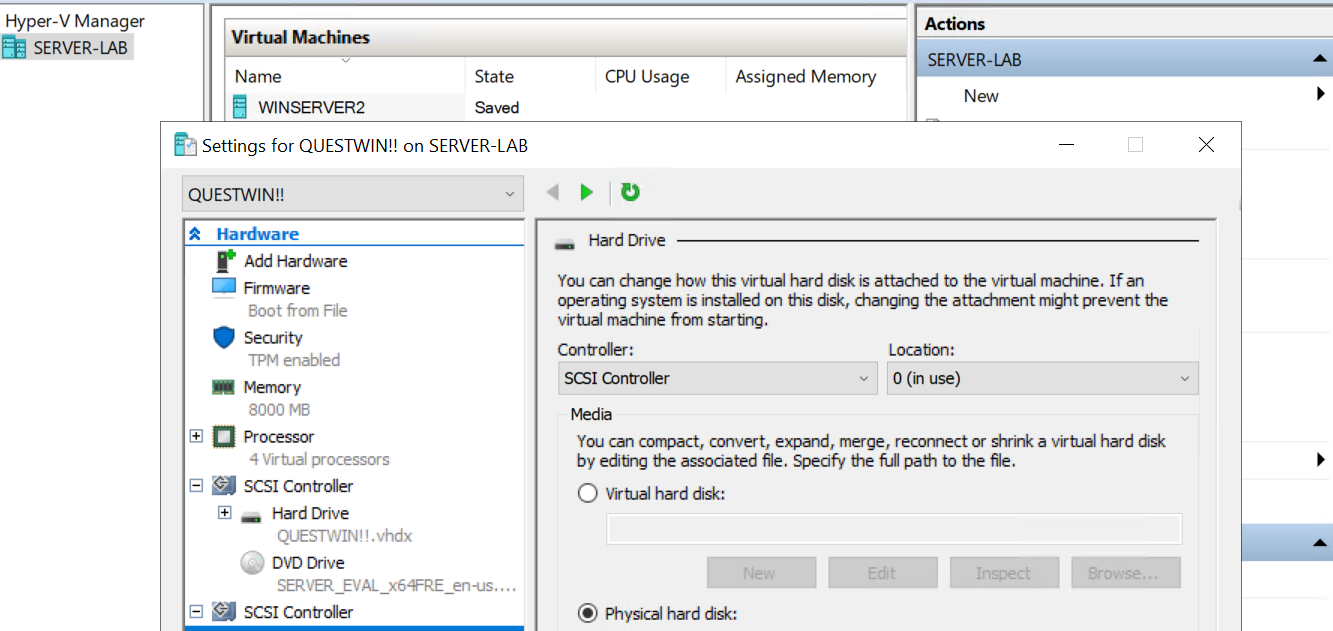
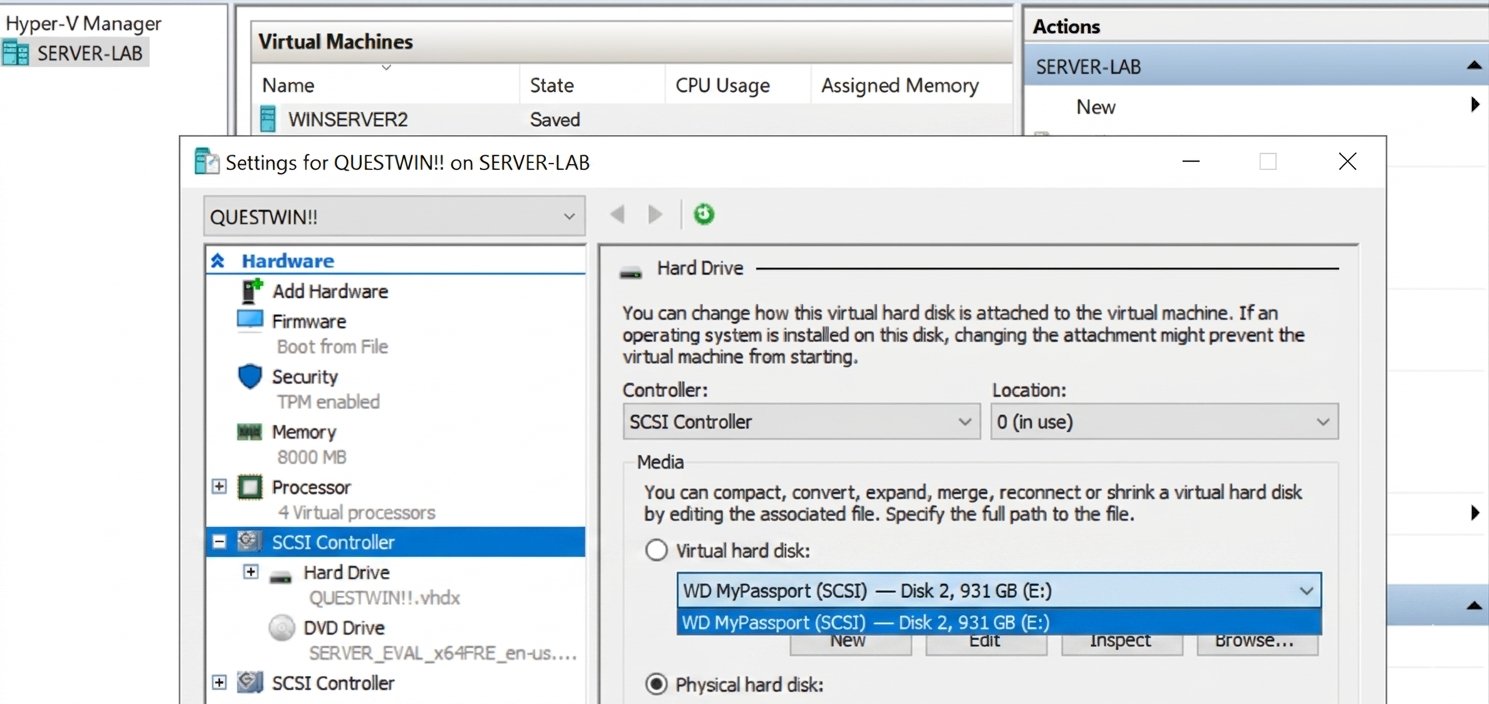
Clear images

diff --git a/docs/dc-cross-site-restore-hyper-v-external.md b/docs/dc-cross-site-restore-hyper-v-external.md
@@ -1,79 +1,90 @@
-# 🛠 DC Cross-Site Restore — Hyper-V (External)
+# Technical Report: Cross-Site Domain Controller Restoration
 
-This guide documents the successful cross-site disaster-recovery exercise: restoring the `questlab.local` domain controller (**SERVER-QUEST**) onto a remote Hyper-V host using a physical drive passthrough.
-
-**Status:** ✅ Restore completed  
-**Source DC:** SERVER-QUEST (`questlab.local`)  
-**Backup Carrier:** WD MyPassport (NTFS, 931 GB)  
-**Target VM:** Gen 2 VM (UEFI) - Windows Server 2022  
+**Project:** Disaster Recovery Validation — SERVER-QUEST  
+**Environment:** Physical-to-Virtual (P2V) via Hyper-V Passthrough  
+**Status:** ✅ Restore Validated  
 
 ---
 
-## 🖥 Phase 1: Hyper-V VM & Disk Passthrough Setup
-Before the restoration can begin, the physical hardware must be prepared and "passed through" to the virtual environment.
+### Executive Summary
+This document confirms the successful cross-site restoration of the `questlab.local` Domain Controller (**SERVER-QUEST**). The exercise validated the use of bare-metal system images for rapid recovery onto disparate hardware using Hyper-V’s physical disk passthrough capabilities.
 
-### 1. Set Host Disk to Offline
-In the Windows Host's **Disk Management**, the WD MyPassport must be set to **Offline**. Hyper-V cannot claim a physical disk if the Host OS is currently mounting it.
+**Recovery Specifications:**
+* **Target OS:** Windows Server 2022 (Standard)
+* **Firmware:** Generation 2 (UEFI)
+* **Storage Interface:** SCSI Passthrough (WD MyPassport 931 GB)
+* **Total Data Volume:** ~75 GB
+* **Total Restore Time:** 45 Minutes
+
+---
+
+### Phase 1: Hyper-V Infrastructure Configuration
+Restoration begins with preparing the virtual environment to interact directly with the physical backup media.
+
+**1.1 Host Storage Preparation**
+The physical backup carrier must be set to an **Offline** state within the host's Disk Management utility. This allows the Hyper-V hypervisor to grant the guest VM exclusive access to the raw disk.
 
 ![Hyper-V Offline Disk](./img/hyperv-offline-disk.png)
+*Figure 1: Transitioning the backup volume to 'Offline' on the host system.*
 
-*Figure 1: Setting the backup carrier to 'Offline' state on the host.*
-
-### 2. Configure VM Passthrough
-In the **Hyper-V Manager** settings for the new Gen 2 VM:
-1. Navigate to **SCSI Controller** > **Hard Drive** > **Add**.
-2. Select the **Physical hard disk** radio button.
-3. Choose the WD MyPassport from the dropdown.
+**1.2 SCSI Controller Mapping**
+Within Hyper-V Manager, the physical drive is mapped to the VM's SCSI controller. This bypasses virtual disk overhead and allows the Windows Recovery Environment (WinRE) to read the `WindowsImageBackup` folder natively.
 
 ![Hyper-V Passthrough Setup](./img/hyperv-passthrough-setup.png)
-
-*Figure 2: Mapping the physical drive directly to the VM's SCSI controller.*
+*Figure 2: Configuring physical hard disk passthrough on the target VM.*
 
 ---
 
-## 🏁 Phase 2: Boot & Environment Setup
-Boot the VM from the Windows Server 2022 ISO and enter the recovery tools:
+### Phase 2: Recovery Environment & Image Initialization
+The VM is initialized via the Windows Server 2022 ISO to access the Advanced Troubleshooting toolset.
 
-1. Select **Repair your computer** > **Troubleshoot** > **System Image Recovery**.
+**2.1 System Image Recovery Execution**
+The "System Image Recovery" tool is utilized to scan the attached SCSI storage for available backup sets.
 
 ![Recovery Wizard](./img/recovery-wizard.png)
+*Figure 3: Initializing the System Image Recovery wizard within WinRE.*
 
-*Figure 3: Accessing the Windows Recovery Environment (WinRE) wizard.*
-
-## 💾 Phase 3: Image Selection
-The wizard scans the passthrough disk and identifies the `WindowsImageBackup` folder.
+**2.2 Volume Verification**
+The wizard successfully identified the system image from **2026-04-26** located on the passthrough volume.
 
 ![Select Image](./img/select-image.png)
+*Figure 4: Automated identification of the backup catalog.*
 
-*Figure 4: Identifying the 2026-04-26 backup on the passthrough disk.*
+---
 
-## ⚠ Phase 4: Critical Disk Exclusion
-**Warning:** You must manually exclude your backup drive so the restore process doesn't attempt to format it during the drive layout phase.
+### Phase 3: Operational Safeguards
+To ensure data integrity, the backup carrier must be excluded from the restoration target list.
+
+**3.1 Disk Exclusion Protocol**
+Manual exclusion of the source disk is mandatory to prevent the restoration engine from attempting to partition or format the backup carrier during the drive layout phase.
 
 ![Excluding Disks](./img/disk-exclusion.png)
+*Figure 5: Operational advisory: Excluding the WD MyPassport from formatting.*
 
-*Figure 5: Ensuring the WD MyPassport is excluded from the restoration target.*
+---
 
-## 🔄 Phase 5: Restoration Progress
-The system begins "Re-imaging your computer," overwriting the target VHDX with the backed-up data from the physical drive.
+### Phase 4: Restoration & Validation
+The engine re-images the virtual hard disk (VHDX) to match the state of the original bare-metal server.
+
+**4.1 Data Restoration Progress**
+The process overwrites the target VHDX with the backed-up data from the physical drive.
 
 ![Restore Progress](./img/restore-progress.png)
+*Figure 6: Active volume restoration in progress.*
 
-*Figure 6: Active restoration of the system volumes.*
-
-## ✅ Phase 6: Finalization & Success
-The process is complete when the success dialog appears. The VM is now ready for an isolated first boot.
+**4.2 Final Success Verification**
+Restoration concluded with zero errors. The system is prepared for isolated post-recovery configuration and stabilization.
 
 ![Restore Success](./img/restore-success.png)
-
-*Figure 7: Successful Bare Metal Recovery verification.*
-
----
-
-## 📝 Key Lessons Learned
-* **Offline Requirement:** A disk *must* be offline in Disk Management for Hyper-V to see it as a passthrough option.
-* **Network Isolation:** On the first boot post-restore, the network adapter **must stay disconnected** to avoid AD metadata corruption.
-* **Firmware Consistency:** Gen 2 (UEFI) is mandatory for modern Windows Server restores.
+*Figure 7: Final confirmation of successful Bare Metal Recovery.*
 
 ---
-*Maintained by blackapple805 | April 2026*
+
+### Technical Observations & Best Practices
+* **Storage Logic:** Setting the host disk to 'Offline' is the primary prerequisite for successful passthrough mounting.
+* **Network Containment:** Post-restoration, the virtual NIC must remain disconnected until AD metadata can be verified to prevent replication conflicts.
+* **Firmware Alignment:** Matching the source's UEFI firmware via a Generation 2 VM is critical for bootloader compatibility.
+
+---
+**Authored By:** blackapple805  
+**Dated:** April 2026
